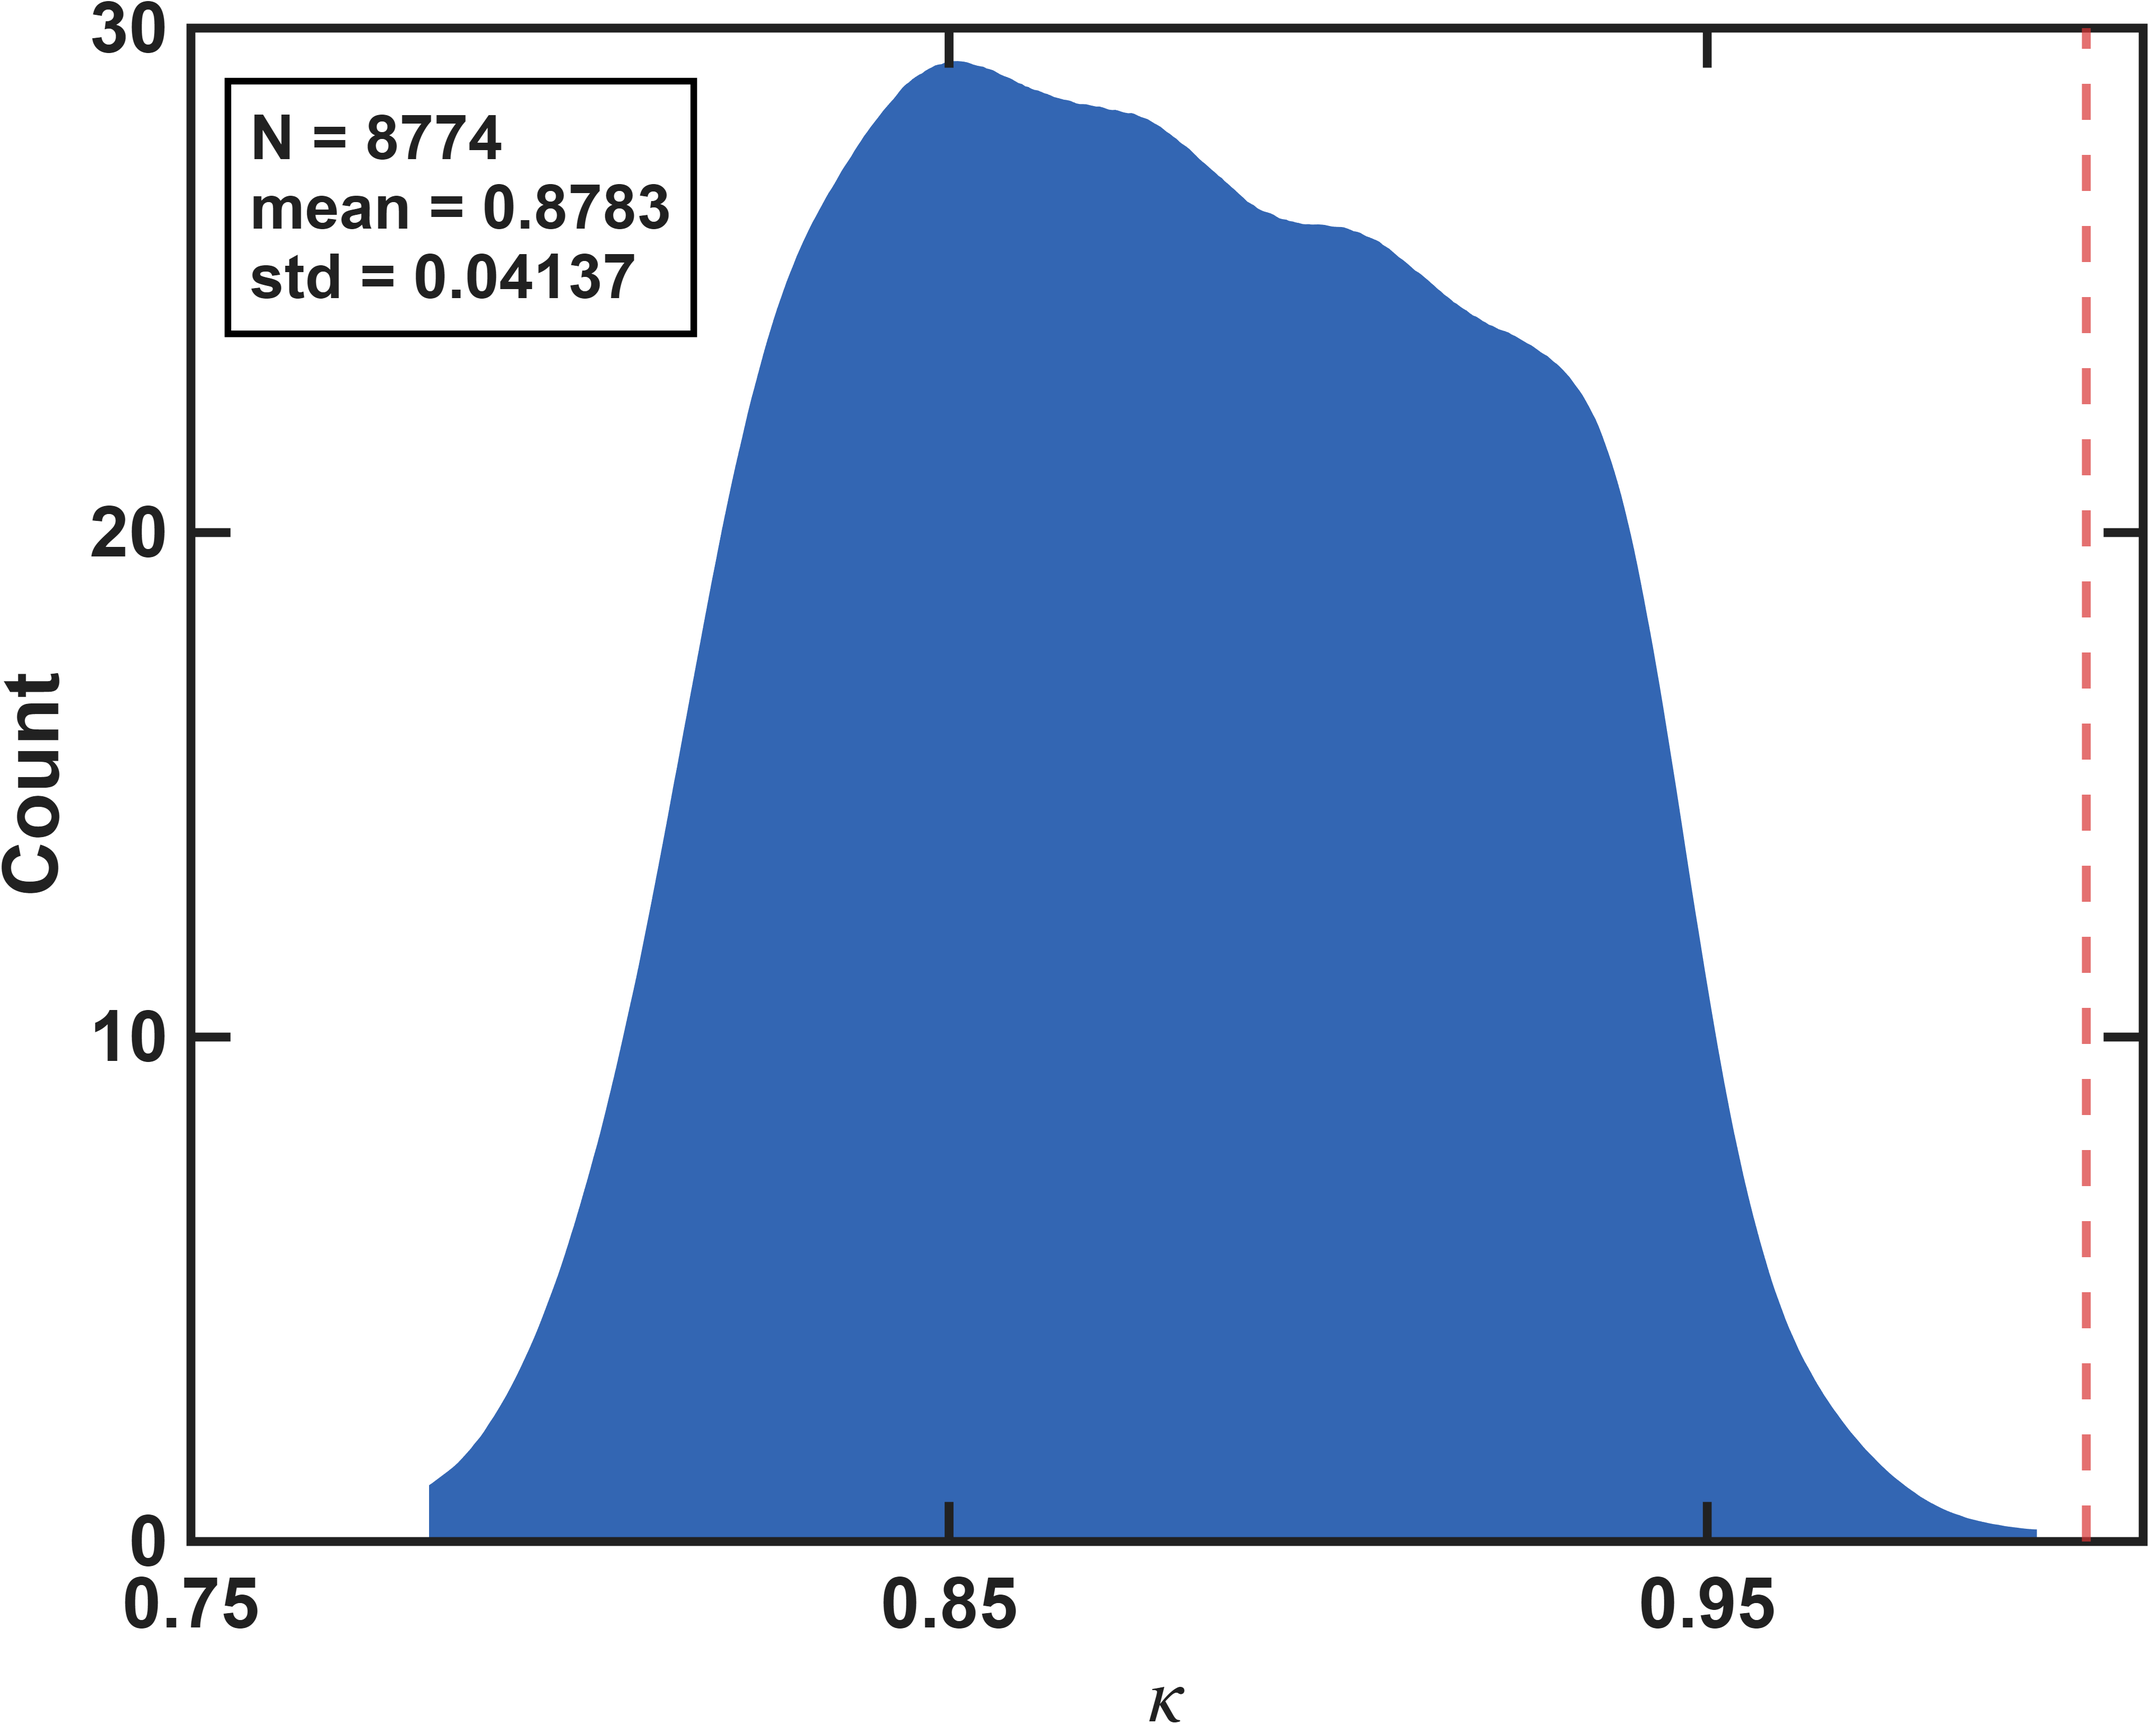
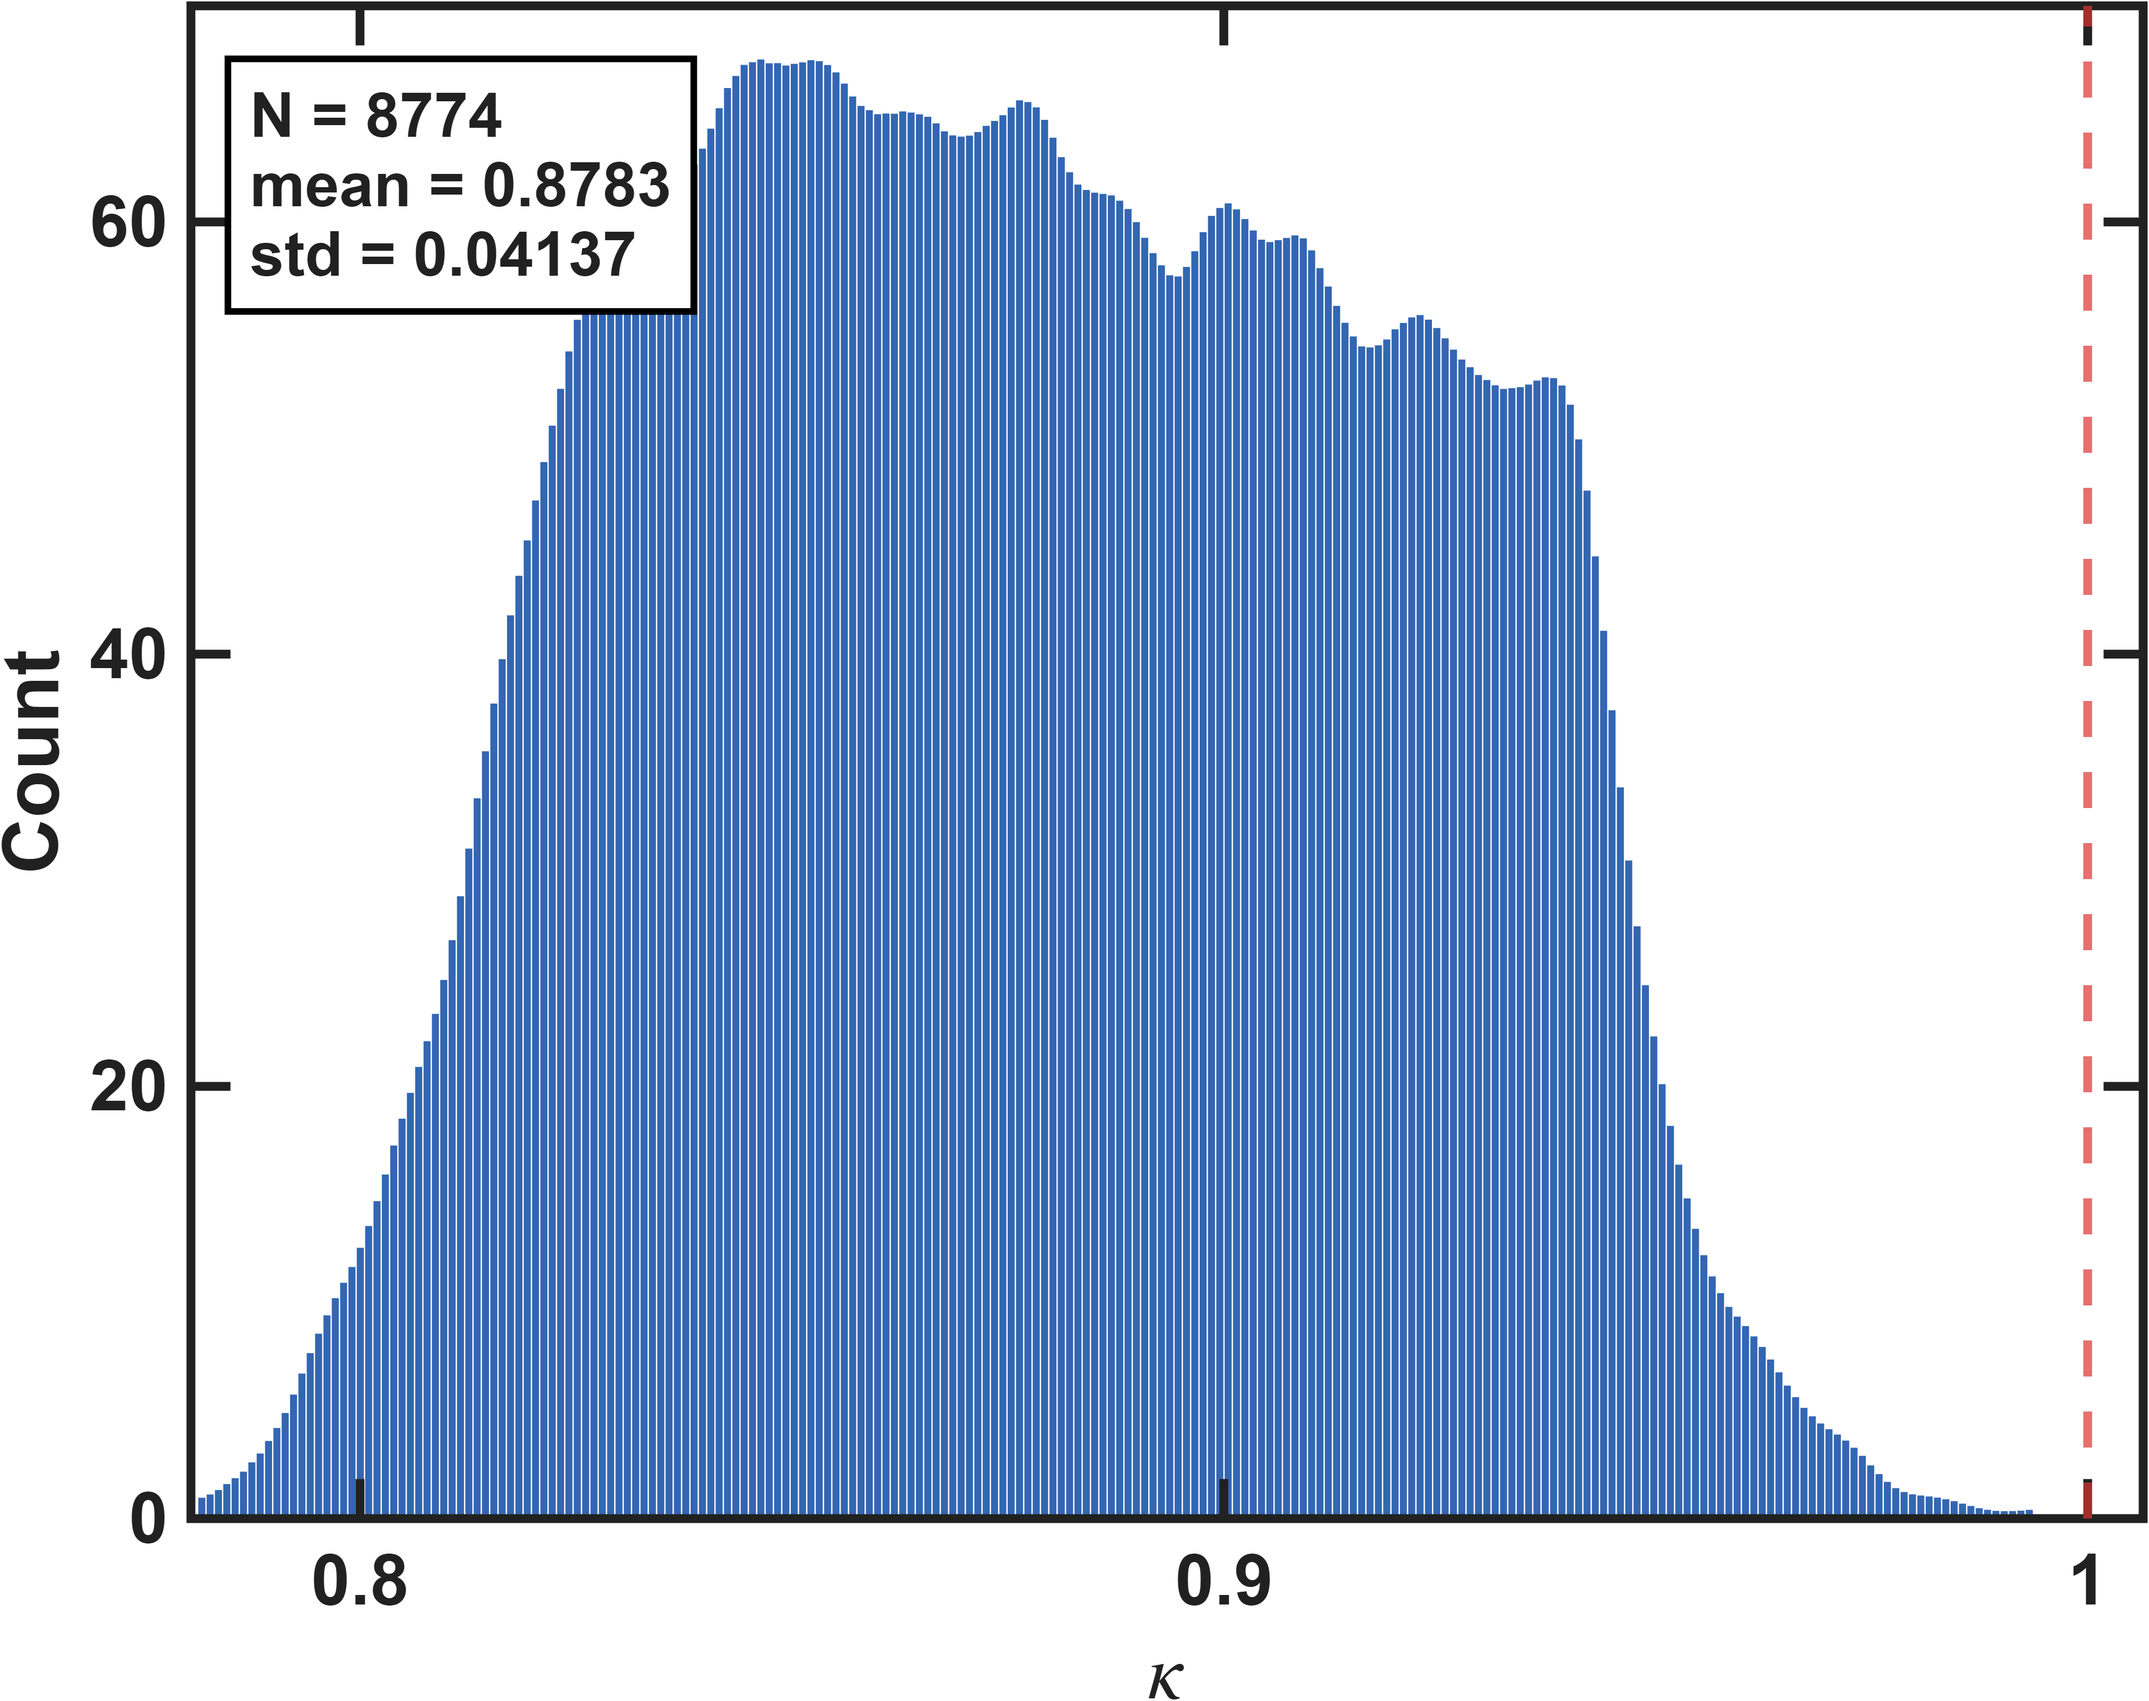
index plots: keep histogram bars but super-high-res + lightly smoothed heights
Render as white-edged bars (histogram look retained) at 220 bins with lightly
gaussian-smoothed heights so the skyline is clean (no single-bin spikes).

diff --git a/magnetic_sim/ANSYS/main/matlab/long2016_hexapole_halfcut/Calibration_using_FEM_modeling/no_fix_dir/code/plot/plot_gain_iso_index.m b/magnetic_sim/ANSYS/main/matlab/long2016_hexapole_halfcut/Calibration_using_FEM_modeling/no_fix_dir/code/plot/plot_gain_iso_index.m
@@ -52,16 +52,16 @@ function plot_gain_iso_index()
 end
 
 function render_hist(y, xlab, sunit, vline, out)
-% 平滑密度填充圖（連續、非離散長條）：細箱 histcounts + gaussian 平滑 → area 實心填充。
+% 超高解析直方圖（保留長條視覺）：超多細箱 histcounts + 輕度 gaussian 平滑 heights（去單箱尖刺、留長條紋理）→ bar 白邊細長條。
 %   左上黑框註記、Count 縱軸、vline 紅虛線（C→mean、kappa→1）。
     n = numel(y);  m = mean(y);  s = std(y);
-    NB = 500;                                                       % 高解析取樣（曲線用 500 點畫 → 平滑無折角）
+    NB = 220;                                                       % 超高解析 bin 數（保留長條視覺、非平滑曲線）
     [cnt, edges] = histcounts(y, NB);
     ctr   = edges(1:end-1) + diff(edges)/2;
-    cnt_s = smoothdata(cnt, 'gaussian', round(NB/6));               % 強高斯平滑：徹底去 bin 噪聲、看不出離散
+    cnt_s = smoothdata(cnt, 'gaussian', round(NB/14));             % 輕度平滑 heights：去單箱尖刺、仍見長條起伏
     fig = figure('Color','w','Position',[100 100 760 560]);
     ax  = axes(fig);
-    area(ax, ctr, cnt_s, 'FaceColor',[0.20 0.40 0.70], 'EdgeColor','none'); hold(ax,'on');   % 實心、連續
+    bar(ax, ctr, cnt_s, 1, 'FaceColor',[0.20 0.40 0.70], 'EdgeColor','w', 'LineWidth',0.3); hold(ax,'on');   % 白邊細長條
     xl = xlim(ax);                                                  % 若 vline 貼/超右界 → 延伸右界讓虛線落在框內
     if vline >= xl(2) - 0.005*(xl(2)-xl(1))
         xlim(ax, [xl(1), vline + 0.03*(xl(2)-xl(1))]);
